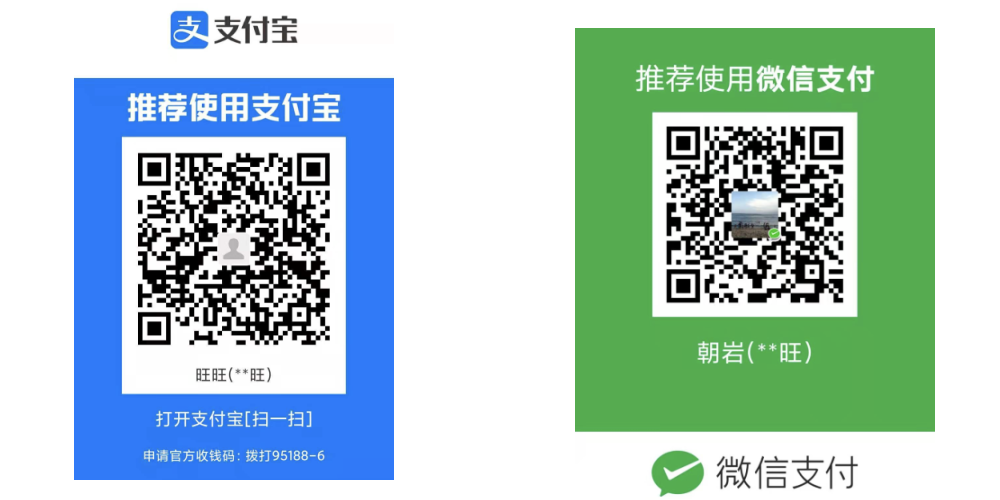
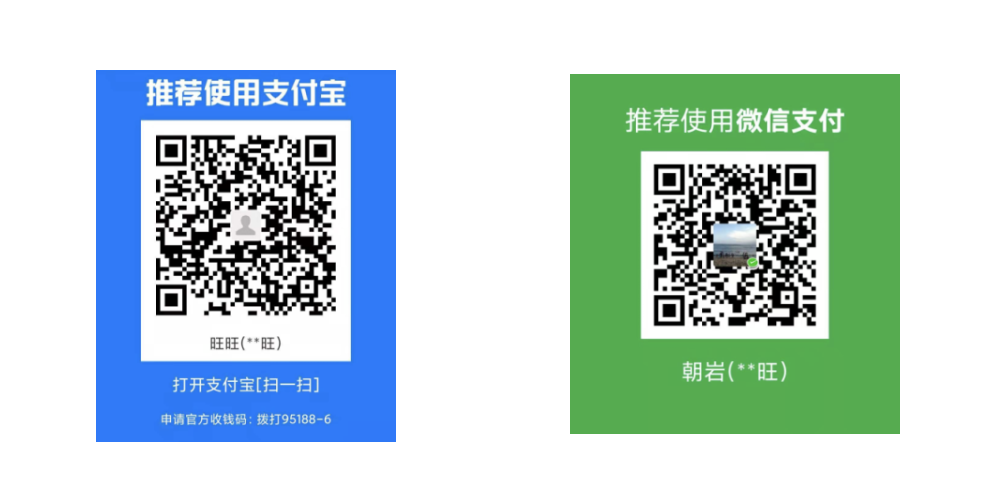
优化文档

diff --git a/README.md b/README.md
@@ -205,7 +205,7 @@
      
    支付宝 微信   
    
-  ![支付宝+微信](./public/pay2.png)   
+  ![支付宝+微信](./public/pay.png)   
       
 
 #### 5 联系作者
